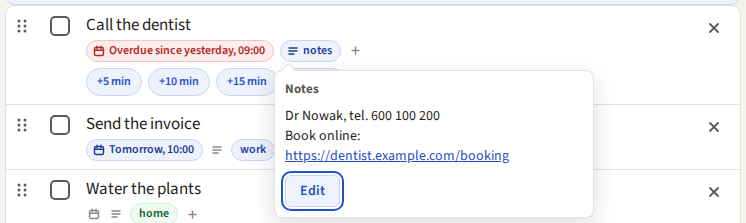
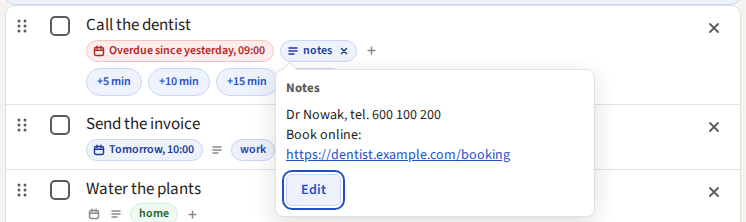
feat: remove the notes of an item with × on the notes chip
The "notes" chip shows a × on hover or keyboard focus, and always on a
touch screen, as the date chip does (canvas page "21 · Notes", board
"Remove the notes", option X1). A click removes the notes at once.
"Notes removed. Undo" shows at the end of the row for 8 seconds; Undo or
Ctrl+Z sends the old notes back.

- The chip look moves to the wrap, so the × is part of the chip; the
  search mark moves with it.
- The click handler for the Undo of a deleted item now reacts only to
  its own line.
- User guide, README and screenshots updated.

diff --git a/internal/web/static/app.js b/internal/web/static/app.js
@@ -45,6 +45,11 @@ document.addEventListener("htmx:beforeSwap", (e) => {
     focusAfterSwap = "due-add-" + row.id.slice("item-".length);
     return;
   }
+  if (active.matches(".notes-x")) {
+    // The same for the notes: go on at the gray notes icon.
+    focusAfterSwap = "notes-add-" + row.id.slice("item-".length);
+    return;
+  }
   if (!active.matches(".check, .delete, .chip-x")) {
     return;
   }
@@ -1191,7 +1196,8 @@ document.addEventListener("htmx:afterSettle", () => {
 });
 
 document.addEventListener("click", (e) => {
-  if (e.target.closest && e.target.closest(".undo-btn")) {
+  // Only the Undo of a deleted item: the other Undo buttons have their own.
+  if (e.target.closest && e.target.closest(".item-undo .undo-btn")) {
     undoDelete();
   }
 });
@@ -1391,7 +1397,7 @@ function applySearch() {
     row.classList.toggle("search-miss", !keep);
     if (notesEl) {
       const headLength = Array.from(head).length;
-      notesEl.classList.toggle("search-hit", !!places && places.some((p) => p > headLength));
+      notesEl.parentElement.classList.toggle("search-hit", !!places && places.some((p) => p > headLength));
     }
     paint(textEl, chars, places ? places.filter((p) => p < chars.length) : []);
     if (keep) {
@@ -1524,4 +1530,89 @@ document.addEventListener("htmx:afterSettle", () => {
     input.setSelectionRange(input.value.length, input.value.length);
   }
   searchFocused = null;
+});
+
+// 19. The × on the notes chip removes the notes at once, with Undo (canvas
+// page "21 · Notes", board "Remove the notes", option X1). The row comes back
+// with the gray notes icon and "Notes removed. Undo" at the end of its chips.
+// Undo, or Ctrl+Z, sends the old notes back. The line goes away after
+// UNDO_MS, or when the row changes again.
+const notesRemoves = new WeakMap(); // xhr → { id, notes }
+let removedNotes = null; // { id, notes, line, timer }
+
+document.addEventListener("htmx:beforeRequest", (e) => {
+  const elt = e.detail.elt;
+  if (!elt || !elt.matches || !elt.matches(".notes-x") || !e.detail.xhr) {
+    return;
+  }
+  const button = elt.parentElement.querySelector(".notes-add[data-notes]");
+  if (button) {
+    notesRemoves.set(e.detail.xhr, { id: button.id.slice("notes-add-".length), notes: button.dataset.notes });
+  }
+});
+
+document.addEventListener("htmx:afterSettle", (e) => {
+  const xhr = e.detail && e.detail.xhr;
+  const removed = xhr && notesRemoves.get(xhr);
+  if (!removed) {
+    return;
+  }
+  notesRemoves.delete(xhr);
+  const row = document.getElementById("item-" + removed.id);
+  const meta = row && row.querySelector(".meta");
+  if (xhr.status !== 200 || !meta) {
+    return;
+  }
+  clearNotesUndo();
+  const line = document.createElement("span");
+  line.className = "notes-msg";
+  line.setAttribute("role", "status");
+  const msg = document.createElement("span");
+  msg.textContent = "Notes removed.";
+  const button = document.createElement("button");
+  button.type = "button";
+  button.className = "undo-btn notes-undo";
+  button.textContent = "Undo";
+  button.addEventListener("click", undoNotes);
+  line.append(msg, button);
+  meta.append(line);
+  removedNotes = { id: removed.id, notes: removed.notes, line, timer: setTimeout(clearNotesUndo, UNDO_MS) };
+});
+
+function clearNotesUndo() {
+  const r = removedNotes;
+  if (!r) {
+    return;
+  }
+  removedNotes = null;
+  clearTimeout(r.timer);
+  r.line.remove();
+}
+
+function undoNotes() {
+  const r = removedNotes;
+  if (!r || !document.body.contains(r.line)) {
+    clearNotesUndo(); // the row came back new: its notes may be new too
+    return;
+  }
+  const row = r.line.closest("li.item");
+  clearNotesUndo();
+  htmx.ajax("PUT", "/items/" + r.id + "/notes", { target: row, swap: "outerHTML", values: { notes: r.notes } }).then(() => {
+    const chip = document.getElementById("notes-add-" + r.id);
+    if (chip && (!document.activeElement || document.activeElement === document.body || !document.body.contains(document.activeElement))) {
+      chip.focus();
+    }
+  }).catch(() => {});
+}
+
+document.addEventListener("keydown", (e) => {
+  if (!removedNotes || pendingDelete || !(e.ctrlKey || e.metaKey) || e.shiftKey || e.altKey || e.key.toLowerCase() !== "z") {
+    return;
+  }
+  const el = document.activeElement;
+  if (el && (el.matches("input, textarea, select") || el.isContentEditable)) {
+    return; // Ctrl+Z in a field undoes the typing
+  }
+  e.preventDefault();
+  undoNotes();
 });

diff --git a/internal/web/static/app.css b/internal/web/static/app.css
@@ -351,8 +351,9 @@ button:focus-visible { outline: 2px solid var(--accent); outline-offset: 2px; }
 
 /* The notes button of a row (canvas page "21 · Notes", option N2). Without
    notes it is a small gray icon, as the calendar and +; with notes it is a
-   gray chip "notes". A match of the search in the notes gives the chip a
-   yellow edge. */
+   gray chip "notes", with a × on hover that removes them (board "Remove the
+   notes", option X1), as the × of the date chip. A match of the search in
+   the notes gives the chip a yellow edge. */
 .notes-add-wrap { position: relative; display: inline-flex; }
 .notes-add {
   position: relative; width: 16px; height: 16px; padding: 0; border-radius: 50%; cursor: pointer;
@@ -361,20 +362,37 @@ button:focus-visible { outline: 2px solid var(--accent); outline-offset: 2px; }
 }
 .notes-add::after { content: ""; position: absolute; inset: -4px; }
 .notes-add:hover, .notes-add[aria-expanded="true"] { color: var(--accent); }
-.notes-add:focus-visible { outline: 2px solid var(--accent); outline-offset: 2px; }
-.notes-add.is-set {
-  width: auto; height: 22px; box-sizing: border-box; gap: 4px; padding: 0 8px 0 6px; border-radius: 999px;
-  font: inherit; font-size: 12px; font-weight: 600; line-height: 1; white-space: nowrap;
+.notes-add:focus-visible, .notes-x:focus-visible { outline: 2px solid var(--accent); outline-offset: 2px; }
+.notes-add-wrap.is-set {
+  align-items: center; height: 22px; box-sizing: border-box; border-radius: 999px;
   color: #4A4843; background: #EFEEEA; border: 1px solid #D9D7D0;
 }
+.notes-add-wrap.is-set:hover, .notes-add-wrap.is-set:focus-within { border-color: currentColor; }
+.notes-add-wrap.is-set:has(.notes-add[aria-expanded="true"]) { color: var(--accent-dark); background: #EEF2FC; border-color: #C9D6F5; }
+.notes-add.is-set {
+  width: auto; height: 20px; gap: 4px; padding: 0 8px 0 6px; border-radius: 999px;
+  font: inherit; font-size: 12px; font-weight: 600; line-height: 1; white-space: nowrap; color: inherit;
+}
 .notes-add.is-set::after { content: none; }
-.notes-add.is-set:hover, .notes-add.is-set[aria-expanded="true"] { color: var(--accent-dark); background: #EEF2FC; border-color: #C9D6F5; }
-.notes-add.search-hit { box-shadow: 0 0 0 2px #FFE58A; }
-.done .notes-add.is-set { opacity: 0.7; }
+.notes-x {
+  flex: none; width: 0; height: 16px; margin: 0; padding: 0; overflow: hidden; opacity: 0;
+  display: inline-flex; align-items: center; justify-content: center;
+  border: none; border-radius: 50%; color: inherit; background: none; cursor: pointer;
+}
+.notes-add-wrap:hover .notes-x, .notes-add-wrap:focus-within .notes-x { width: 16px; margin: 0 4px 0 -4px; opacity: 1; }
+.notes-x:hover { background: rgba(31, 30, 27, 0.12); }
+.notes-add-wrap.search-hit { box-shadow: 0 0 0 2px #FFE58A; }
+.done .notes-add-wrap.is-set { opacity: 0.7; }
+/* "Notes removed." with Undo after the ×, at the end of the row's chips. */
+.notes-msg { display: inline-flex; align-items: center; gap: 6px; font-size: 12px; color: var(--muted); }
+.notes-msg .undo-btn { font-size: 12px; min-height: 22px; padding: 0 9px; }
 @media (hover: none) {
   .notes-add { width: 20px; height: 20px; }
   .notes-add::after { inset: -6px; }
-  .notes-add.is-set { height: 28px; }
+  .notes-add-wrap.is-set { height: 28px; }
+  .notes-add.is-set { height: 26px; }
+  .notes-x, .notes-add-wrap .notes-x { width: 22px; height: 22px; margin: 0 3px 0 -4px; opacity: 1; }
+  .notes-msg .undo-btn { min-height: 32px; font-size: 14px; }
 }
 
 /* The pop-ups: the label list, the due date pop-up and the notes pop-up. */

diff --git a/internal/web/templates/item.html b/internal/web/templates/item.html
@@ -41,7 +41,8 @@
 </li>{{end}}
 
 {{/* Notes on an item (canvas page "21 · Notes", option N2). data-notes is for the search (app.js section 18). */}}
-{{define "notes-add"}}<span class="notes-add-wrap"><button type="button" id="notes-add-{{.ID}}" class="notes-add{{if .Notes}} is-set{{end}}" aria-label="{{if .Notes}}Show the notes of “{{.Text}}”{{else}}Add notes to “{{.Text}}”{{end}}" title="{{if .Notes}}Show the notes{{else}}Add notes{{end}}" aria-haspopup="dialog" aria-expanded="false" data-picker="/items/{{.ID}}/notes"{{if .Notes}} data-notes="{{.Notes}}"{{end}}>{{template "notes-icon"}}{{if .Notes}}notes{{end}}</button></span>{{end}}
+{{define "notes-add"}}<span class="notes-add-wrap{{if .Notes}} is-set{{end}}"><button type="button" id="notes-add-{{.ID}}" class="notes-add{{if .Notes}} is-set{{end}}" aria-label="{{if .Notes}}Show the notes of “{{.Text}}”{{else}}Add notes to “{{.Text}}”{{end}}" title="{{if .Notes}}Show the notes{{else}}Add notes{{end}}" aria-haspopup="dialog" aria-expanded="false" data-picker="/items/{{.ID}}/notes"{{if .Notes}} data-notes="{{.Notes}}"{{end}}>{{template "notes-icon"}}{{if .Notes}}notes{{end}}</button>{{if .Notes}}<button type="button" class="notes-x" aria-label="Remove the notes of “{{.Text}}”" title="Remove the notes"
+  hx-put="/items/{{.ID}}/notes" hx-params="none" hx-target="closest li" hx-swap="outerHTML">{{template "x-small-icon"}}</button>{{end}}</span>{{end}}
 
 {{define "item-edit"}}<li id="item-{{.Item.ID}}" class="item editing{{if .Item.Done}} done{{end}}"
   hx-get="/items/{{.Item.ID}}" hx-trigger="cancel-edit" hx-target="this" hx-swap="outerHTML" hx-sync="this:drop">

diff --git a/internal/web/notes_test.go b/internal/web/notes_test.go
@@ -27,7 +27,14 @@ func TestRowNotesButton(t *testing.T) {
 		`<span class="notes-add-wrap"><button type="button" id="notes-add-1" class="notes-add" aria-label="Add notes to “Pay the rent”" title="Add notes" aria-haspopup="dialog" aria-expanded="false" data-picker="/items/1/notes">`,
 		`<button type="button" id="notes-add-2" class="notes-add is-set" aria-label="Show the notes of “Visit grandma”" title="Show the notes" aria-haspopup="dialog" aria-expanded="false" data-picker="/items/2/notes" data-notes="ul. Lipowa 12/4
 tel. 600 100 200">`,
-		`</svg>notes</button></span>`)
+		`</svg>notes</button><button type="button" class="notes-x" aria-label="Remove the notes of “Visit grandma”" title="Remove the notes"
+  hx-put="/items/2/notes" hx-params="none" hx-target="closest li" hx-swap="outerHTML">`)
+	// The chip look is on the wrap, so that the × is part of the chip; a row
+	// without notes has no ×.
+	assertContains(t, body, `<span class="notes-add-wrap is-set"><button type="button" id="notes-add-2"`)
+	if strings.Count(body, `class="notes-x"`) != 1 {
+		t.Fatalf("want one × (only the row with notes):\n%s", body)
+	}
 	// The notes button comes after the date chip and before the labels.
 	row := body[strings.Index(body, `id="item-2"`):]
 	if !strings.Contains(row, "notes-add-wrap") || strings.Index(row, "due-add-wrap") > strings.Index(row, "notes-add-wrap") || strings.Index(row, "notes-add-wrap") > strings.Index(row, "label-add-wrap") {
@@ -148,4 +155,38 @@ func TestAPINotes(t *testing.T) {
 		t.Fatalf("PATCH long notes: %d, want 422", rec.Code)
 	}
 	assertContains(t, rec.Body.String(), `"error":"bad_notes"`, `"message":"The notes are too long: at most 2000 characters."`)
+}
+
+// The × on the notes chip sends no values: the empty notes remove them, and
+// the row comes back with the gray notes icon (canvas page "21 · Notes",
+// board "Remove the notes", option X1).
+func TestRemoveNotesWithX(t *testing.T) {
+	env := newTestEnv(t)
+	mustAdd(t, env.Svc, "Visit grandma")
+	env.Svc.SetNotes(context.Background(), env.User.ID, 1, "ul. Lipowa 12/4")
+	rec := do(t, env.H, "PUT", "/items/1/notes", nil, htmxHeaders)
+	if rec.Code != http.StatusOK {
+		t.Fatalf("PUT without notes: %d\n%s", rec.Code, rec.Body.String())
+	}
+	assertContains(t, rec.Body.String(), `<span class="notes-add-wrap"><button type="button" id="notes-add-1" class="notes-add"`)
+	assertNotContains(t, rec.Body.String(), "notes-x", "data-notes")
+	if it, _ := env.Svc.Get(context.Background(), env.User.ID, 1); it.Notes != "" {
+		t.Fatalf("notes = %q, want none", it.Notes)
+	}
+}
+
+// app.js shows "Notes removed." with Undo after the ×, and Undo sends the old
+// notes back; the CSS shows the × on hover, as the × of the date chip.
+func TestNotesRemoveUndoAssets(t *testing.T) {
+	h, _ := newTestApp(t)
+	js := do(t, h, "GET", "/static/app.js", nil, nil).Body.String()
+	assertContains(t, js,
+		`elt.matches(".notes-x")`, `"Notes removed."`, `"undo-btn notes-undo"`,
+		`htmx.ajax("PUT", "/items/" + r.id + "/notes"`, `values: { notes: r.notes }`,
+		`active.matches(".notes-x")`, `e.target.closest(".item-undo .undo-btn")`)
+	css := do(t, h, "GET", "/static/app.css", nil, nil).Body.String()
+	assertContains(t, css,
+		".notes-add-wrap.is-set {", ".notes-x {",
+		".notes-add-wrap:hover .notes-x, .notes-add-wrap:focus-within .notes-x {",
+		".notes-add-wrap.search-hit {", ".notes-msg {")
 }

diff --git a/docs/user-guide.md b/docs/user-guide.md
@@ -91,7 +91,11 @@ An item can have notes: a longer text, for example an address, a phone number or
 
 An item with notes shows a gray **notes** chip in place of the icon. Click it to read the
 notes. A link that starts with http:// or https:// opens in a new tab. To change the notes,
-click **Edit**. To remove them, delete all the text and click **Save**.
+click **Edit**.
+
+To remove the notes, point at the **notes** chip and click the × that shows in it. "Notes
+removed." with **Undo** shows at the end of the row. To get the notes back, click **Undo** or
+press Ctrl+Z. After 8 seconds, **Undo** goes away.
 
 ![The notes of an item](guide-images/notes.png "the notes of “Call the dentist”: a name, a phone number and a link, with the button Edit under them.")
 
@@ -317,8 +321,8 @@ The app works in the browser of a phone. On a narrow screen:
 
 On a touch screen:
 
-- The calendar icon, the notes icon and the + of an item are larger, and the × on a date or a
-  label always shows.
+- The calendar icon, the notes icon and the + of an item are larger, and the × on a date, a
+  label or the **notes** chip always shows.
 - The calendar icon and the + under the add field are larger, and the × in the due date button
   always shows.
 - In the label list, the due date pop-up and the notes pop-up, the lines, the fields and the
@@ -396,6 +400,7 @@ web, so a change on the phone shows in the browser and the other way round.
 | Search field | Esc | Closes the search and shows all items |
 | Grip (⋮⋮) | Up arrow, down arrow | Moves the item |
 | List, after a delete | Ctrl+Z | Brings the deleted item back (while **Undo** shows) |
+| List, after the notes are removed | Ctrl+Z | Brings the notes back (while **Undo** shows) |
 | Due date pop-up | Enter | Saves the date |
 | Due date pop-up | Esc | Closes the pop-up |
 | Notes pop-up, field | Enter | Makes a new line |

diff --git a/README.md b/README.md
@@ -17,7 +17,8 @@ Privacy policy: https://toodoo.fly.dev/privacy (the text is in
 - Search the items with the magnifying glass or `/`. The search is fuzzy: "jul" finds "Julek",
   and Polish letters do not matter.
 - Add notes to an item, for example an address, a phone number or a link. The notes icon on
-  each item opens them, and links in them can be clicked.
+  each item opens them, and links in them can be clicked. The × on the notes chip removes them,
+  with Undo.
 - Repeat an item every day, week, month or year. When you check it off, its date moves to the
   next time.
 - Give a new item its due date and labels with the calendar icon and the + under the add
